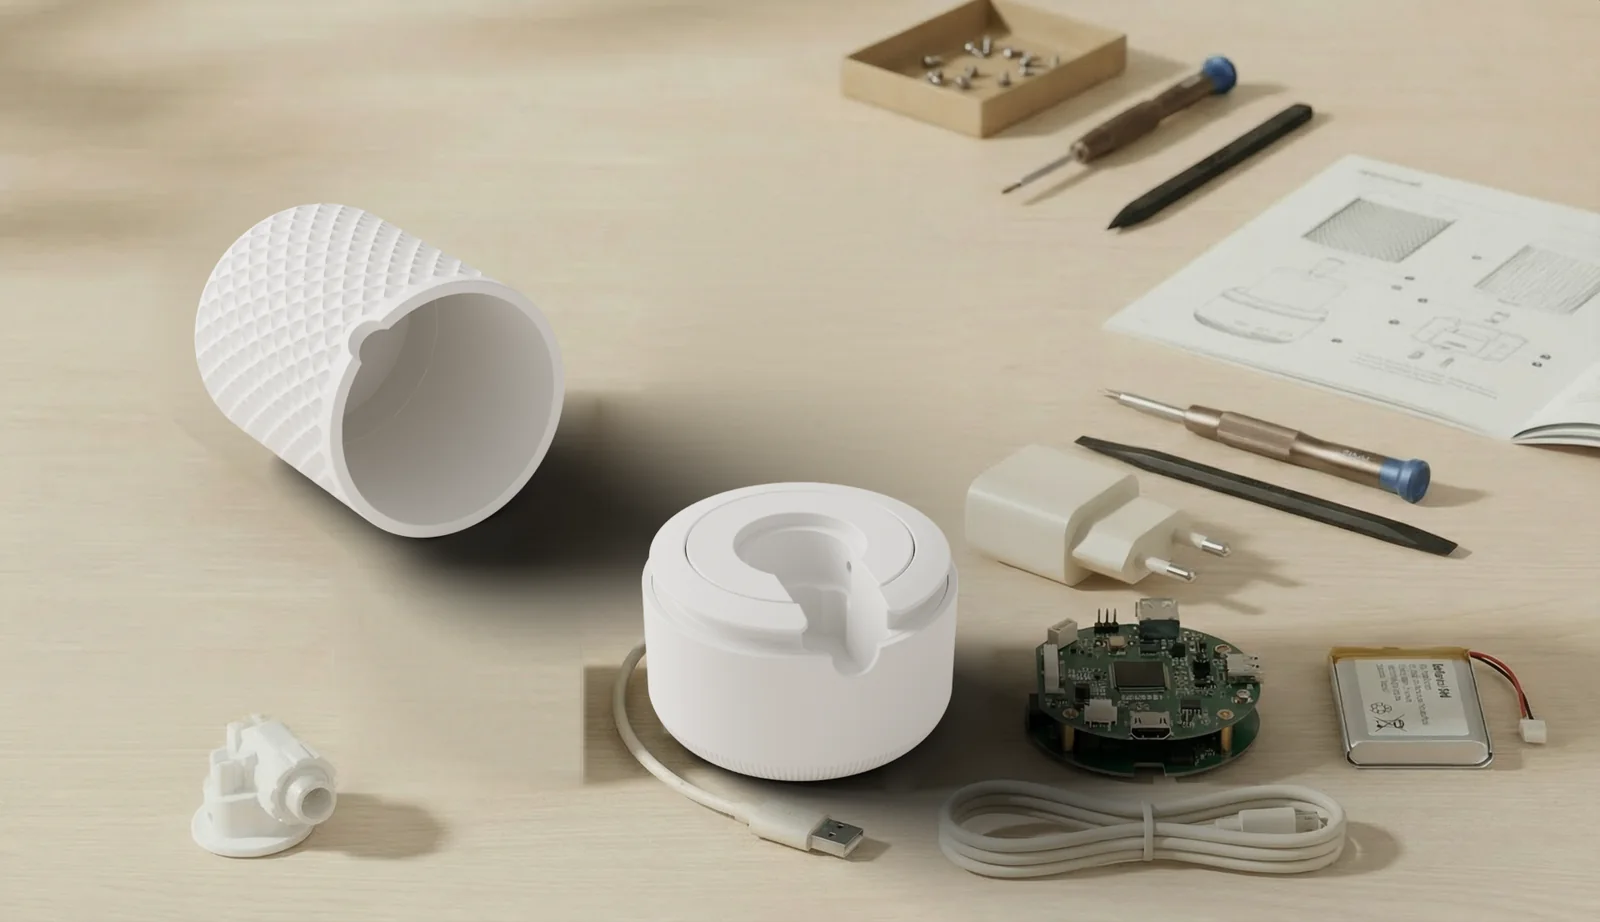
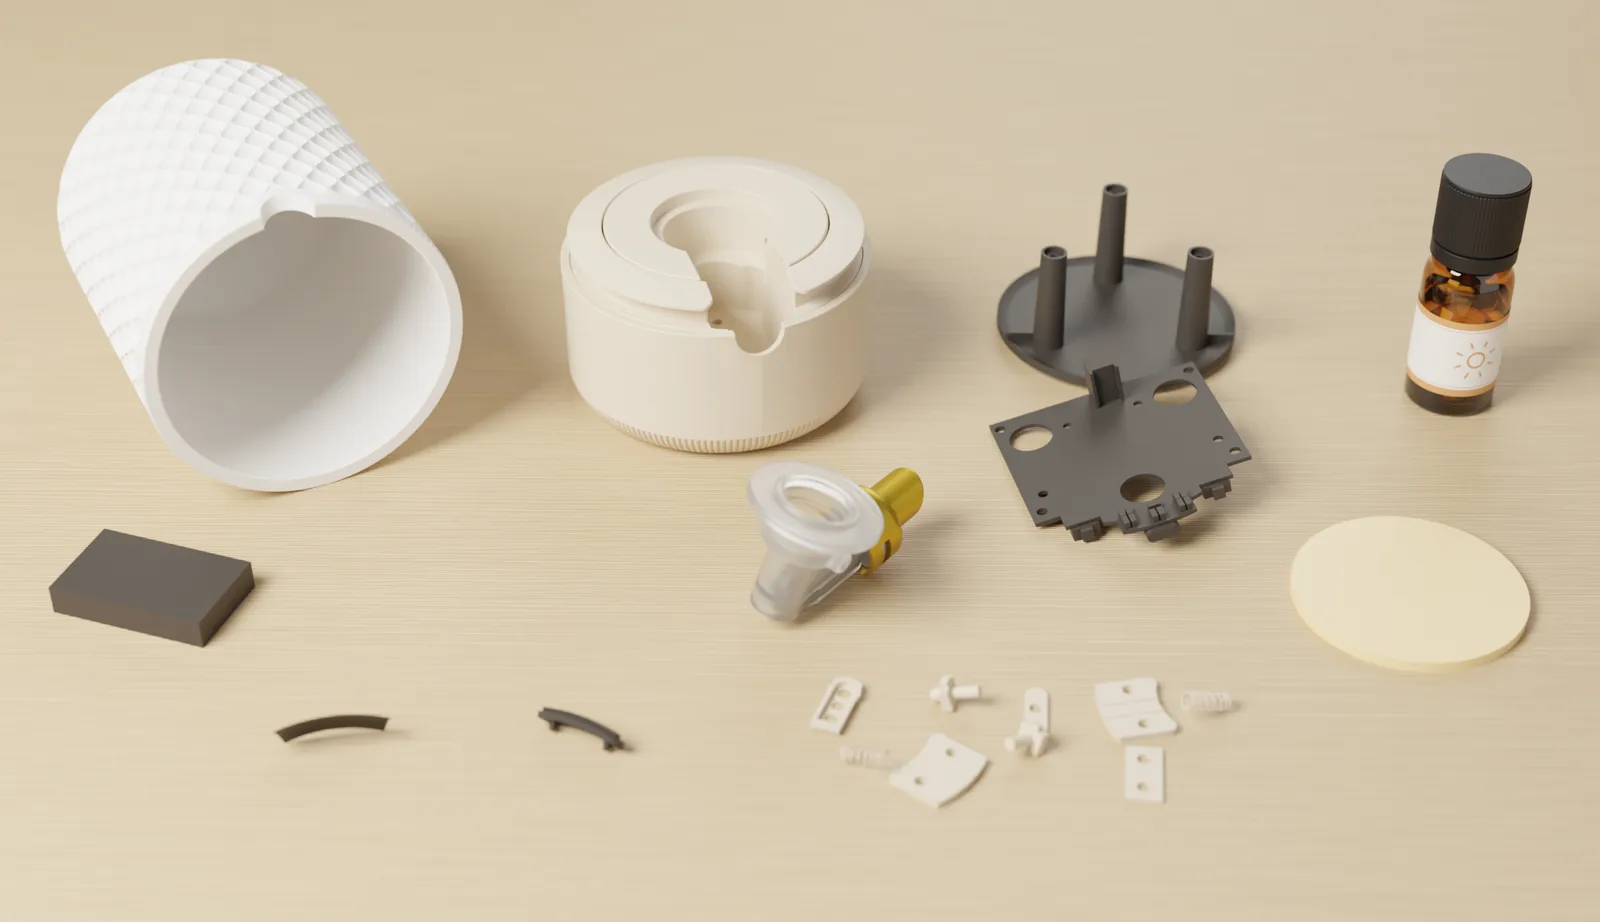
Durabilité : image refaite entièrement en 3D avec les vraies pièces de Tolia, toutes posées sur la table, et le flacon DIN 18 fermé (l'image IA montrait une carte avec prises HDMI et USB-A, une batterie au texte illisible et un faux module) ; texte alternatif mis à jour en FR, EN, ES (accord de Pier

diff --git a/src/components/sections/DurabilitySection.tsx b/src/components/sections/DurabilitySection.tsx
@@ -14,6 +14,9 @@ import IMG_900 from '@/assets/journee/img/durabilite_tolia_cloche_diamant_900.we
 // 20/10/2026, demande de Pierre : l'image de l'ancien site (générée par IA) est gardée, mais son diffuseur bleu inventé est
 // remplacé par le vrai Tolia issu des fichiers STP : base blanche vide debout, cloche diamant (celle des Tolia Nikura) couchée.
 // Fabrication : outils/blender/durabilite.py + durabilite-2026-10-20/ (masque.py, remplit.py).
+// 28/10/2026, accord de Pierre : image refaite entièrement en 3D (l'image IA montrait une carte avec prises HDMI et USB-A, une
+// batterie au texte illisible et un faux module) : seules les vraies pièces STP, posées sur la table par simulation, et le
+// flacon DIN 18 fermé. Fabrication : outils/blender/durabilite3d.py -> durabilite-2026-10-28/.
 
 /**
  * Durabilité et réparabilité : un argument fort pour les grandes marques d'aromathérapie (engagements RSE).
@@ -114,9 +117,9 @@ const DurabilitySection: React.FC = () => {
               className="w-full h-auto"
               alt={t3(
                 language,
-                'Le Tolia démonté sur une table : la cloche diamant couchée, la base vide, et autour les composants, les outils et la notice',
-                'Tolia taken apart on a table: the diamond cover lying down, the empty base, with the components, tools and manual around them',
-                'Tolia desmontado sobre una mesa: la cubierta diamante tumbada, la base vacía y, alrededor, los componentes, las herramientas y el manual'
+                'Le Tolia démonté sur une table : la cloche diamant couchée, la base vide, le module doré, les pièces intérieures et un flacon d’huile essentielle',
+                'Tolia taken apart on a table: the diamond cover lying down, the empty base, the gold module, the internal parts and an essential oil bottle',
+                'Tolia desmontado sobre una mesa: la cubierta diamante tumbada, la base vacía, el módulo dorado, las piezas internas y un frasco de aceite esencial'
               )}
             />
             <figcaption className="px-4 py-2.5 text-xs text-muted-foreground">
